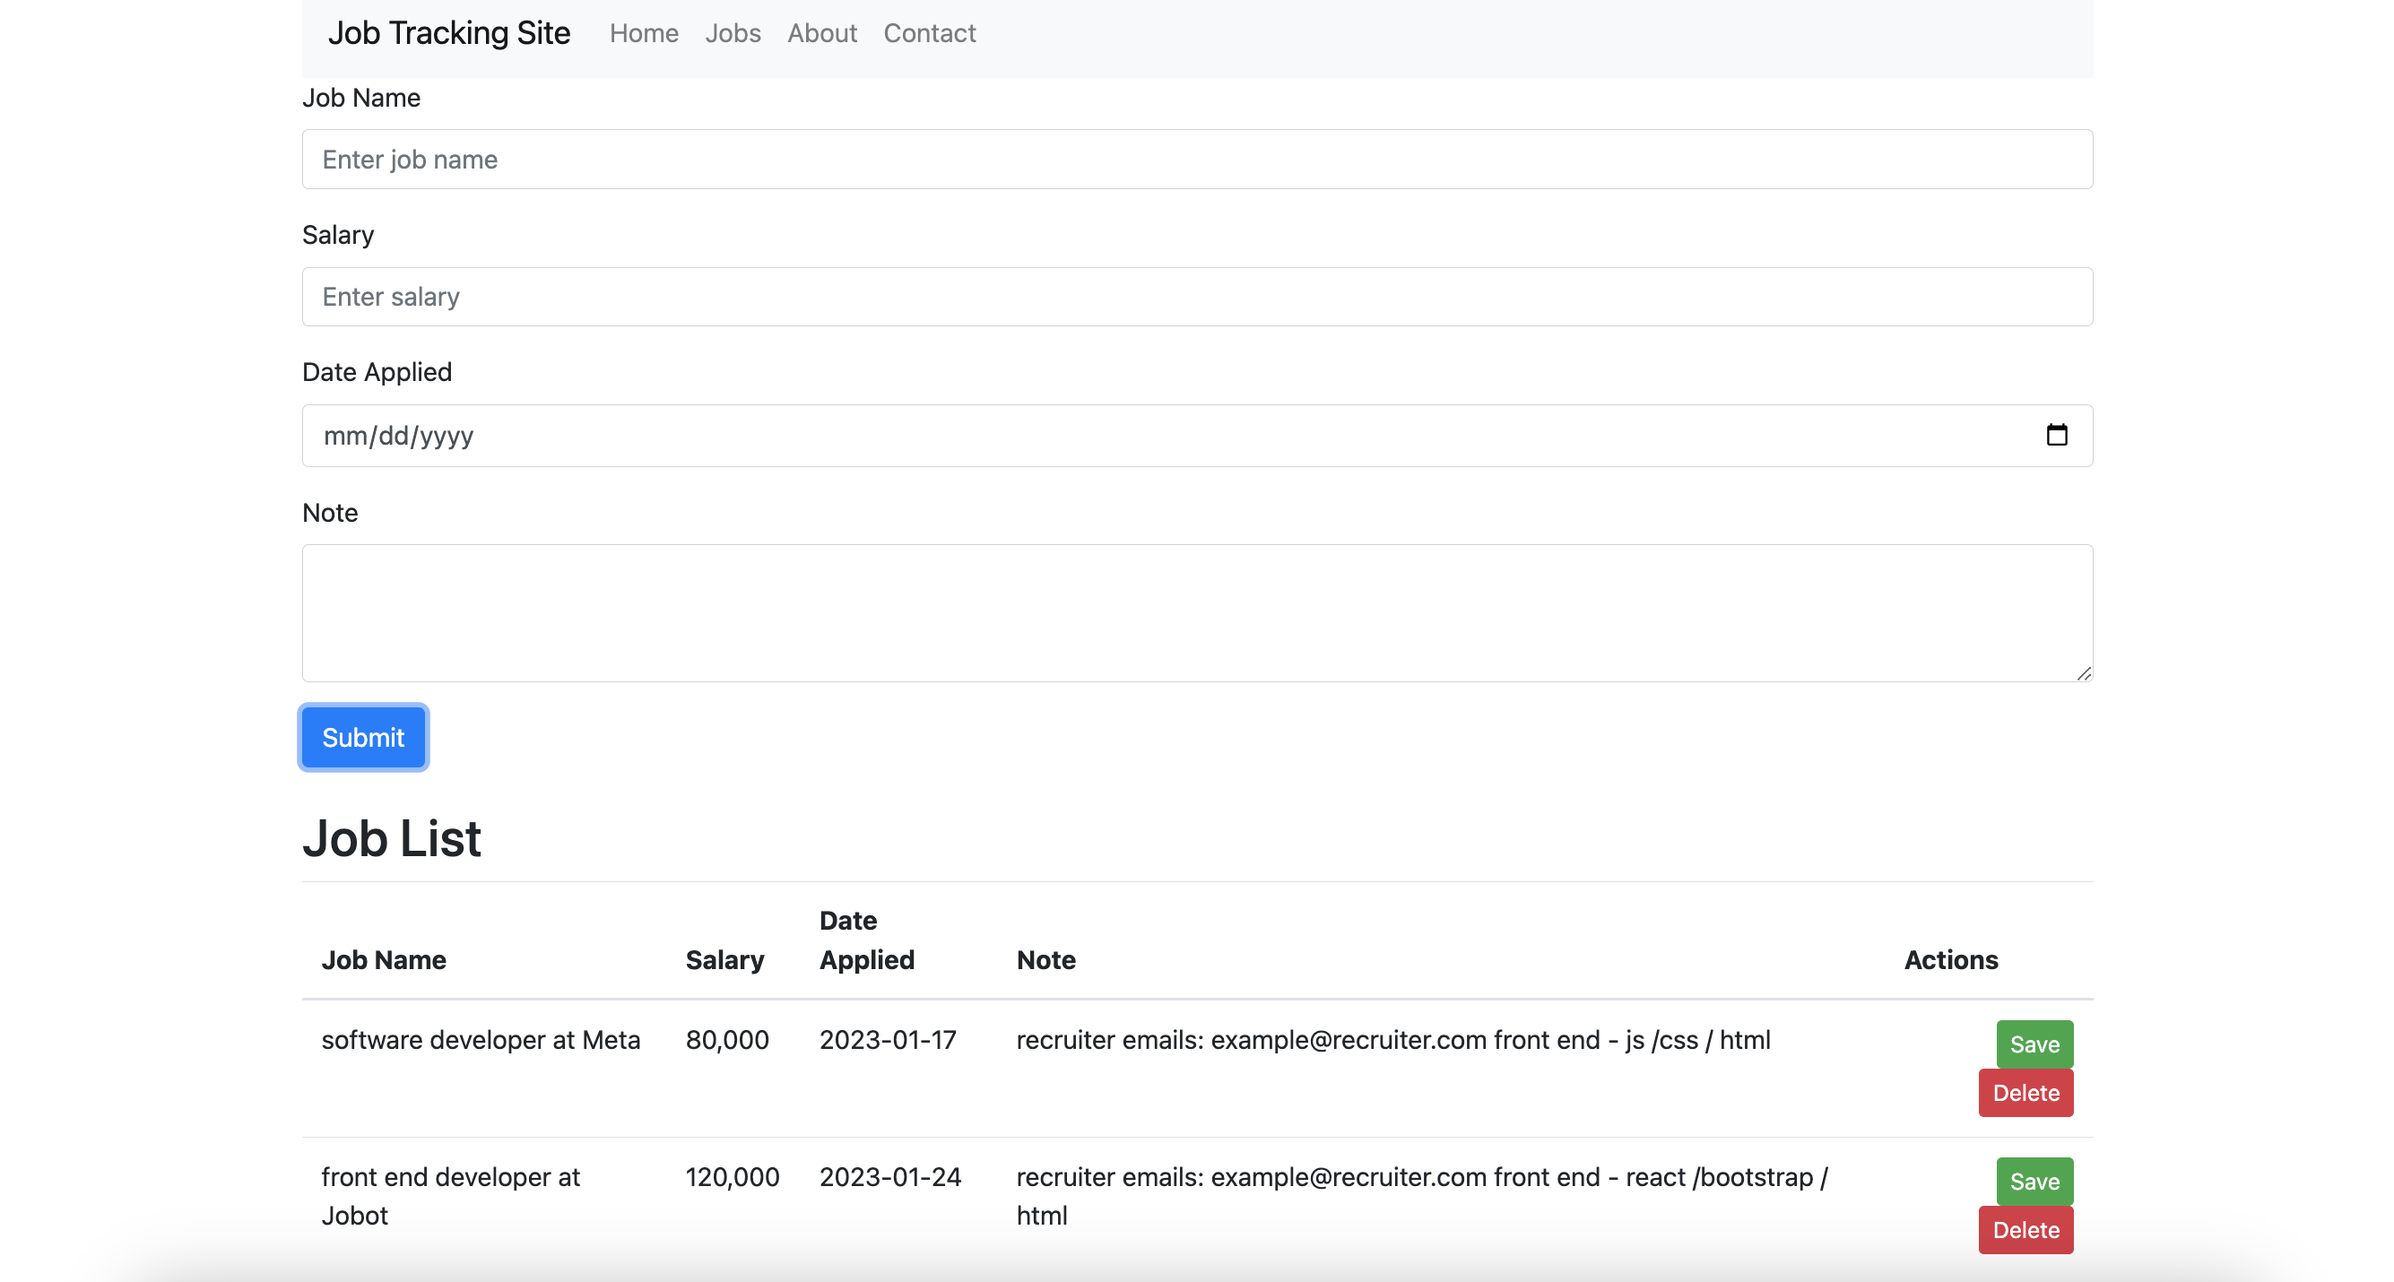
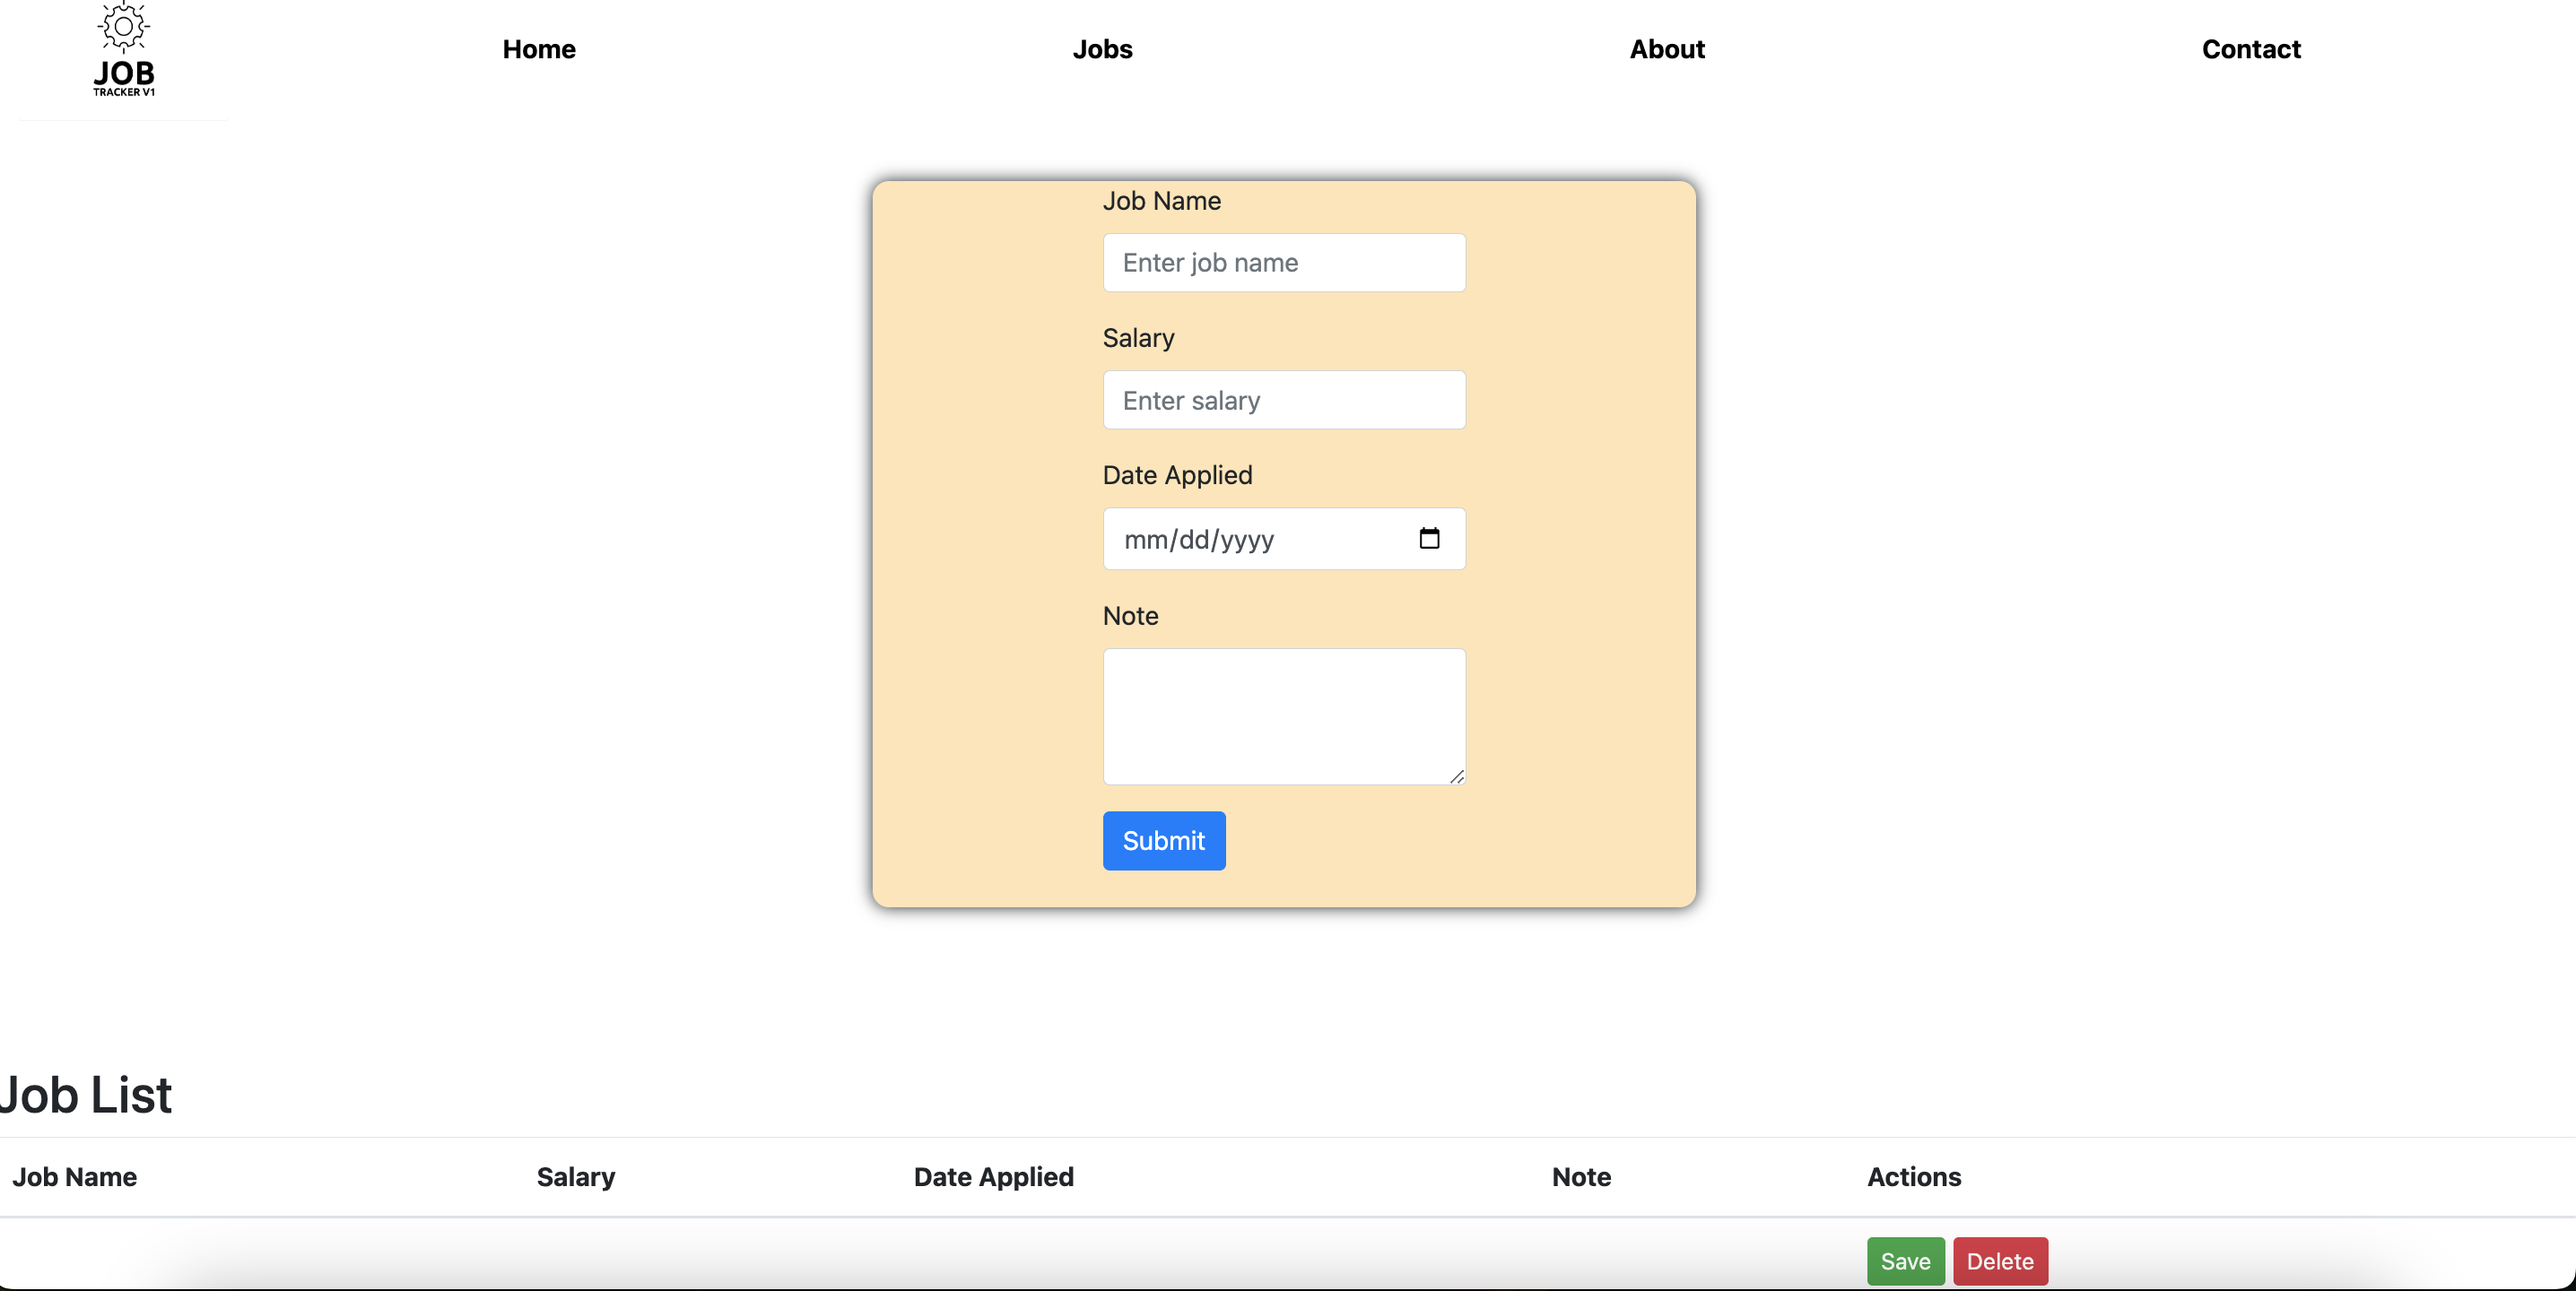
large update to make site look more user friendly

diff --git a/index.html b/index.html
@@ -7,32 +7,31 @@
   <link rel="stylesheet" href="style.css" crossorigin="anonymous" />
 </head>
 <body>
-  <div class="container">
-    <nav class="navbar navbar-expand-lg navbar-light bg-light">
-      <a class="navbar-brand" href="#">
-        <img src="images/headerlogo.png" alt="image-description" width="130" height="90">
-      
-      </a>
-      <button class="navbar-toggler" type="button" data-toggle="collapse" data-target="#navbarNav" aria-controls="navbarNav" aria-expanded="false" aria-label="Toggle navigation">
-        <span class="navbar-toggler-icon"></span>
-      </button>
-      <div class="collapse navbar-collapse" id="navbarNav">
-        <ul class="navbar-nav">
-          <li class="nav-item">
-            <a class="nav-link" href="#">Home</a>
-          </li>
-          <li class="nav-item">
-            <a class="nav-link" href="#">Jobs</a>
-          </li>
-          <li class="nav-item">
-            <a class="nav-link" href="#">About</a>
-          </li>
-          <li class="nav-item">
-            <a class="nav-link" href="#">Contact</a>
-          </li>
-        </ul>
-      </div>
-    </nav>
+  <nav class="navbar navbar-expand-lg navbar-light text-center" style="background-color: white;">
+    <a class="navbar-brand" href="#">
+      <img src="images/headerlogo.png" alt="image-description" width="130" height="90">
+    </a>
+    <button class="navbar-toggler" type="button" data-toggle="collapse" data-target="#navbarNav" aria-controls="navbarNav" aria-expanded="false" aria-label="Toggle navigation">
+      <span class="navbar-toggler-icon"></span>
+    </button>
+    <div class="collapse navbar-collapse" id="navbarNav">
+      <ul class="navbar-nav w-100 justify-content-around">
+        <li class="nav-item">
+          <a class="nav-link" href="#" style="font-weight: bold; color: black;">Home</a>
+        </li>
+        <li class="nav-item">
+          <a class="nav-link" href="#" style="font-weight: bold; color: black;">Jobs</a>
+        </li>
+        <li class="nav-item">
+          <a class="nav-link" href="#" style="font-weight: bold; color: black;">About</a>
+        </li>
+        <li class="nav-item">
+          <a class="nav-link" href="#" style="font-weight: bold; color: black;">Contact</a>
+        </li>
+      </ul>
+    </div>
+  </nav>
+  
     <br>
     <div class="container modern-square">
       <div class="row">
@@ -92,6 +91,8 @@
         </div>
       </div>
     </div>
+    <br>
+    <br>
     <footer class="bg-light py-3">
       <div class="container">
         <div class="row">

diff --git a/style.css b/style.css
@@ -4,8 +4,9 @@
   
   .modern-square {
     width: 510px;
-    height: 412px;
-    margin: 0 auto; /*center the container*/
-    background-color: #2ac74c; /* you can adjust the color as desired*/
-    box-shadow: 0px 0px 10px 0px
+    height: 450px;
+    margin: 0 auto; 
+    background-color: #ffe5b4;
+    box-shadow: 0px 0px 10px 0px;
+    border-radius: 10px;
   }
